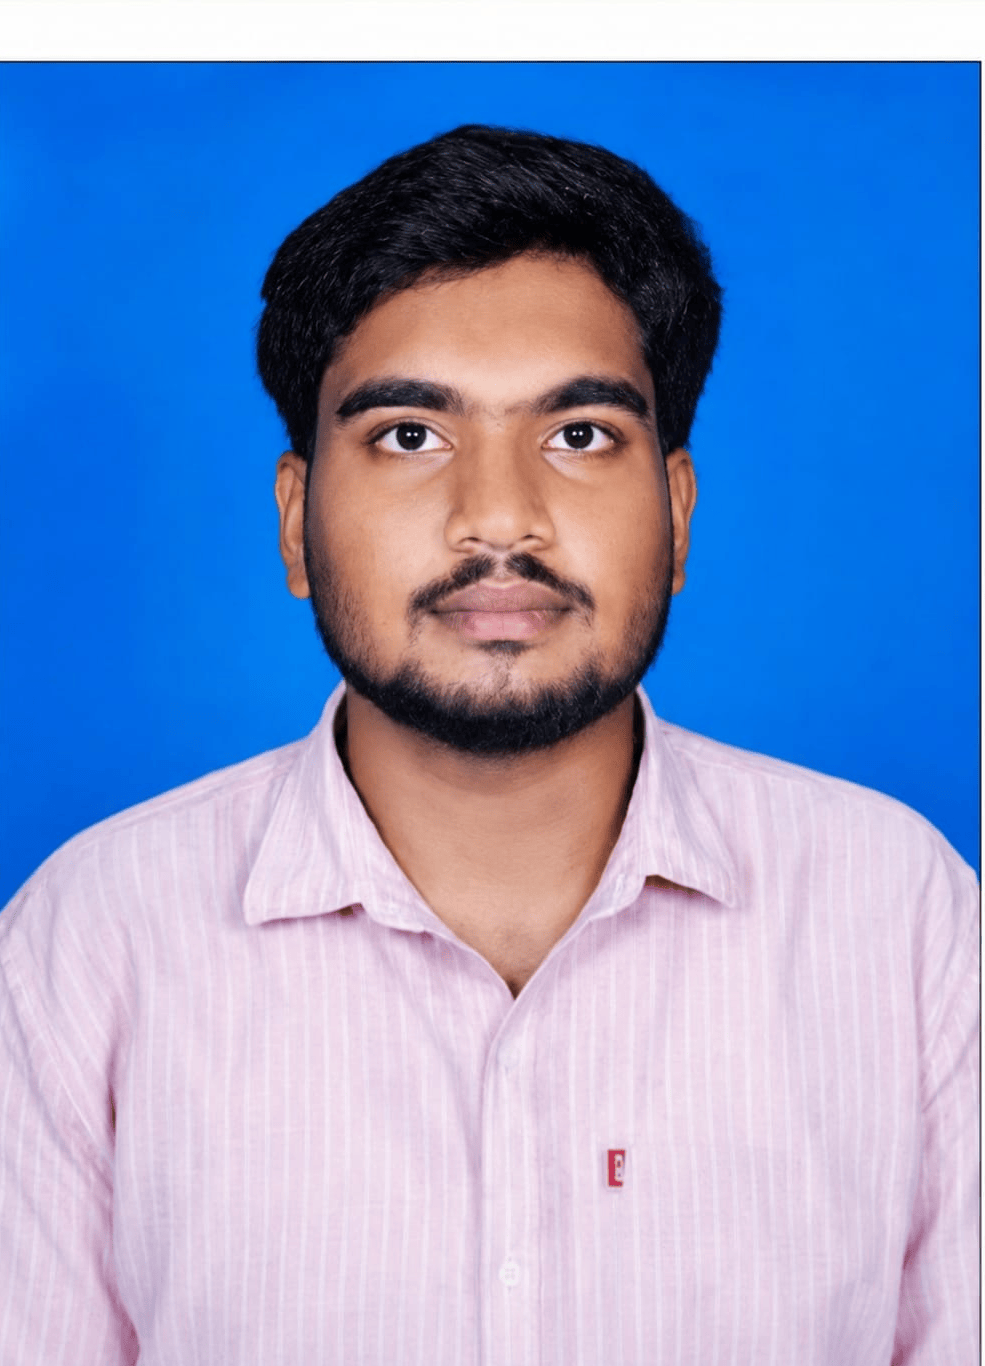
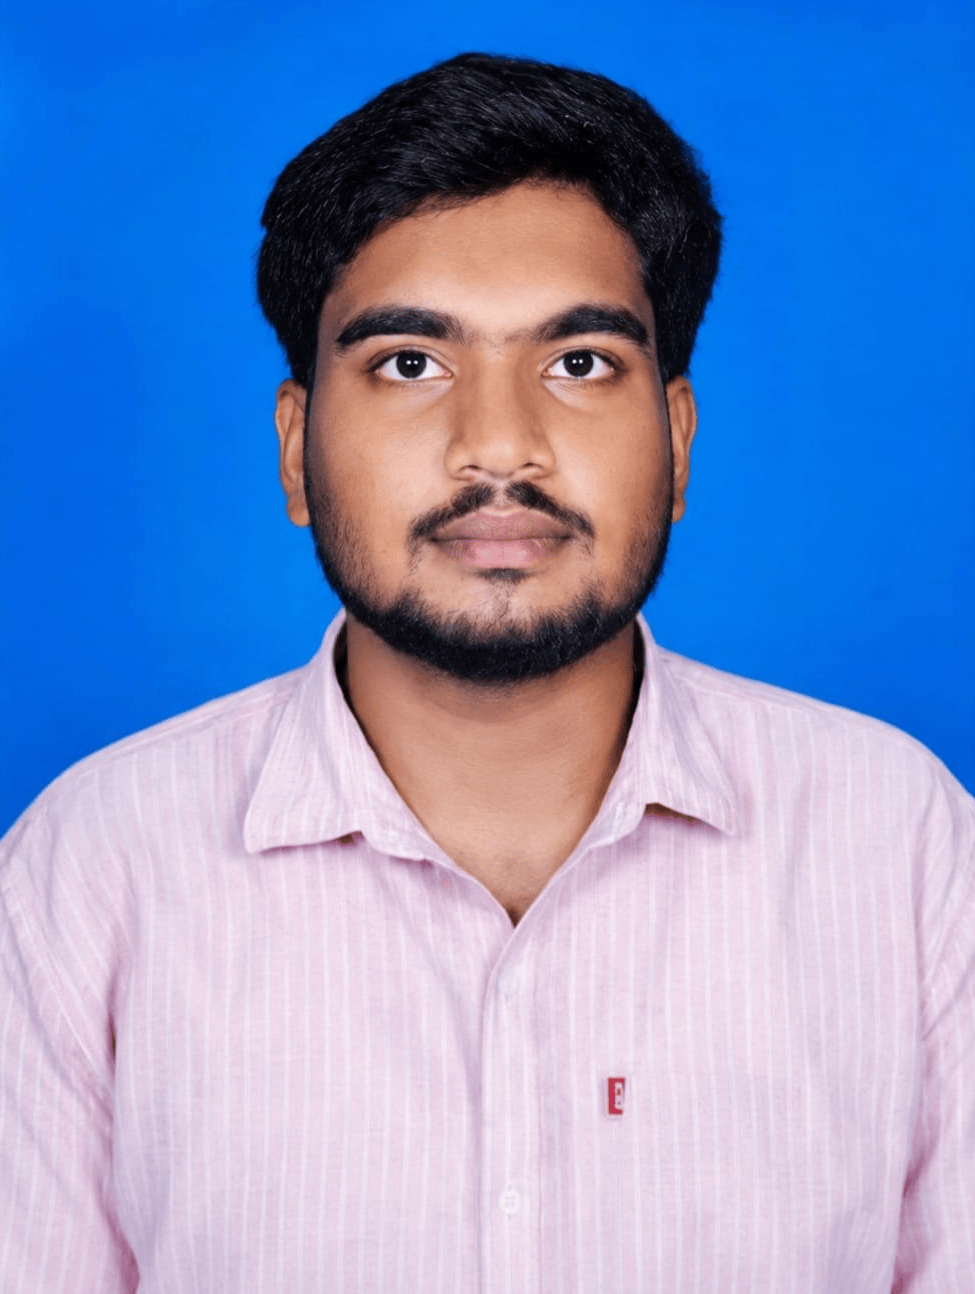
Update team photos to standard 3:4 portrait aspect ratio and sync latest secretary image

diff --git a/src/pages/Team.jsx b/src/pages/Team.jsx
@@ -80,7 +80,7 @@ export default function Team() {
                     src={resolveImage(member.photoUrl || member.id)} 
                     alt={member.name}
                     onError={handleImgError}
-                    className="w-36 h-36 rounded-3xl object-cover object-top border-4 border-ieee-blue mx-auto shadow-lg"
+                    className="w-36 sm:w-40 aspect-[3/4] rounded-3xl object-cover object-top border-4 border-ieee-blue mx-auto shadow-lg"
                   />
                   <div>
                     <h3 className="text-xl font-bold text-slate-900 dark:text-white">{member.name}</h3>
@@ -133,21 +133,23 @@ export default function Team() {
                 whileInView={{ opacity: 1, y: 0 }}
                 viewport={{ once: true }}
                 transition={{ duration: 0.4, delay: idx * 0.08 }}
-                className="bg-white dark:bg-slate-800 rounded-3xl p-6 shadow-lg border border-slate-200 dark:border-slate-700 text-center space-y-4 hover:-translate-y-1 hover:border-ieee-blue hover:shadow-2xl transition-all duration-200 group"
+                className="bg-white dark:bg-slate-800 rounded-3xl p-6 shadow-lg border border-slate-200 dark:border-slate-700 text-center space-y-4 hover:-translate-y-1 hover:border-ieee-blue hover:shadow-2xl transition-all duration-200 group flex flex-col justify-between"
               >
-                <div className="relative w-32 h-36 mx-auto">
-                  <img 
-                    src={resolveImage(member.photoUrl || member.id)} 
-                    alt={member.name}
-                    onError={handleImgError}
-                    className="w-full h-full rounded-2xl object-cover object-top border-2 border-slate-200 dark:border-slate-700 group-hover:border-ieee-blue group-hover:scale-105 transition-all duration-300 shadow-md"
-                  />
-                </div>
+                <div className="space-y-4">
+                  <div className="relative w-32 sm:w-36 aspect-[3/4] mx-auto overflow-hidden rounded-2xl border-2 border-slate-200 dark:border-slate-700 group-hover:border-ieee-blue transition-all duration-300 shadow-md">
+                    <img 
+                      src={resolveImage(member.photoUrl || member.id)} 
+                      alt={member.name}
+                      onError={handleImgError}
+                      className="w-full h-full object-cover object-top group-hover:scale-105 transition-all duration-300"
+                    />
+                  </div>
 
-                <div>
-                  <h3 className="text-lg font-bold text-slate-900 dark:text-white group-hover:text-ieee-blue transition-colors">{member.name}</h3>
-                  <p className="text-xs font-bold text-ieee-blue dark:text-sky-400">{member.role}</p>
-                  <p className="text-[11px] text-slate-500 dark:text-slate-400 mt-0.5">{member.department} • {member.year}</p>
+                  <div>
+                    <h3 className="text-lg font-bold text-slate-900 dark:text-white group-hover:text-ieee-blue transition-colors">{member.name}</h3>
+                    <p className="text-xs font-bold text-ieee-blue dark:text-sky-400">{member.role}</p>
+                    <p className="text-[11px] text-slate-500 dark:text-slate-400 mt-0.5">{member.department} • {member.year}</p>
+                  </div>
                 </div>
 
                 <div className="pt-3 flex justify-center gap-2 border-t border-slate-100 dark:border-slate-700">
